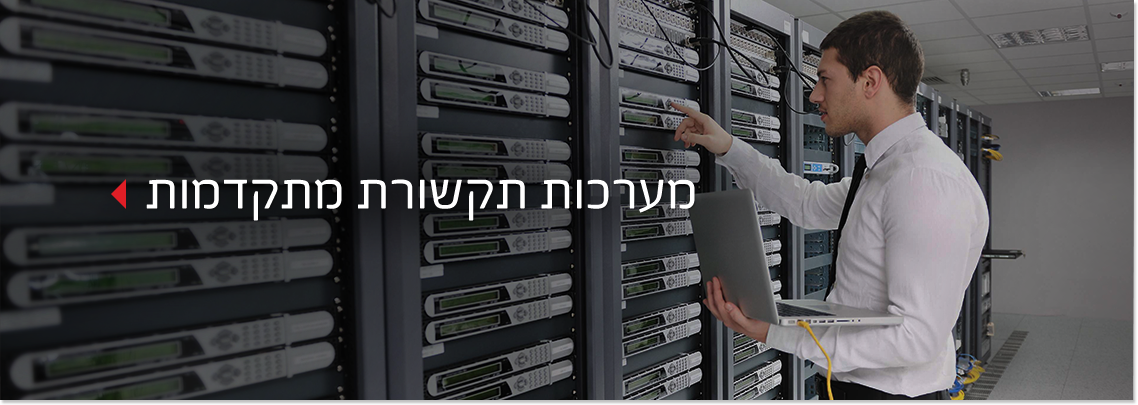
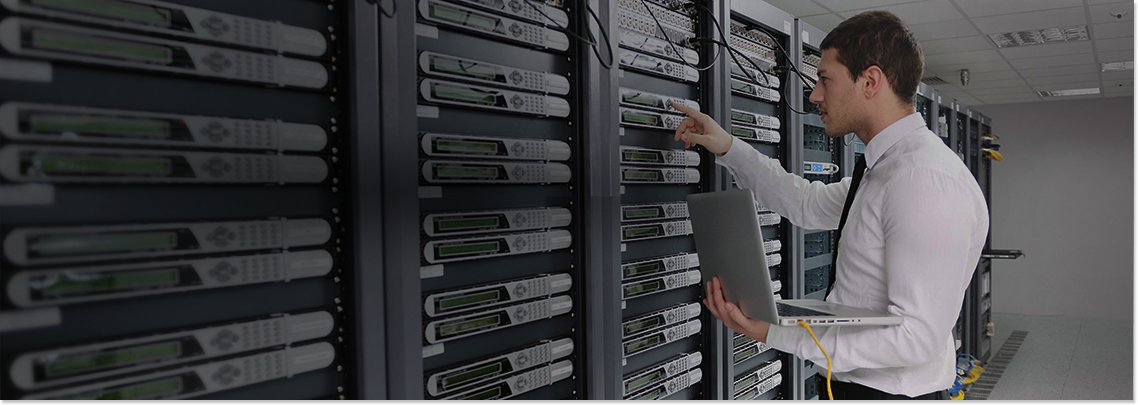
slider fixed

Changed region(s): [[0.0923, 0.4444, 0.6151, 0.5333]]

diff --git a/index.html b/index.html
@@ -90,10 +90,23 @@
     <section class="demo_wrapper width120">
       <article class="demo_block">
         <ul id="demo1">
-          <li><a href="#slide1"><img src="images/sliderimg1.png"></a> </li>
-          <li><a href="#slide2"><img src="images/sliderimg2.png" ></a></li>
-          <li><a href="#slide3"><img src="images/sliderimg1.png"></a></li>
-          <li><a href="#slide4"><img src="images/sliderimg2.png"></a></li>
+        
+          <li><a href="#slide1"><img src="images/sliderimg1.png"></a>
+          <a href="#" class="textimg"> <img src="images/text1.png" alt=""> </a> 
+          </li>
+          
+          <li><a href="#slide2"><img src="images/sliderimg2.png"></a>
+          <a href="#" class="textimg"> <img src="images/text2.png" alt=""> </a> 
+          </li>
+
+          <li><a href="#slide3"><img src="images/sliderimg1.png"></a>
+          <a href="#" class="textimg"> <img src="images/text1.png" alt=""> </a> 
+          </li>
+
+          <li><a href="#slide4"><img src="images/sliderimg2.png"></a>
+          <a href="#" class="textimg"> <img src="images/text2.png" alt=""> </a> 
+          </li>
+
         </ul>
       </article>
     </section>

diff --git a/css/style.css b/css/style.css
@@ -142,6 +142,7 @@ ul.dropdown-menu li:hover:before { background-position: left -30px; }
 .footertext { padding:14px 0 0 8px; }
 .footercolumn ul li a img { opacity: 1.0; filter: alpha(opacity=100); }
 .footercolumn ul li a:hover img { opacity: 0.5; filter: alpha(opacity=40); }
+.textimg { position:absolute; top:170px; left:100px; width:auto !important; }
 /*------------------------------------About Page-----------------------------------*/
 
 .leftcontainer { background: #ffffff; margin: 0 0 20px 0; }
